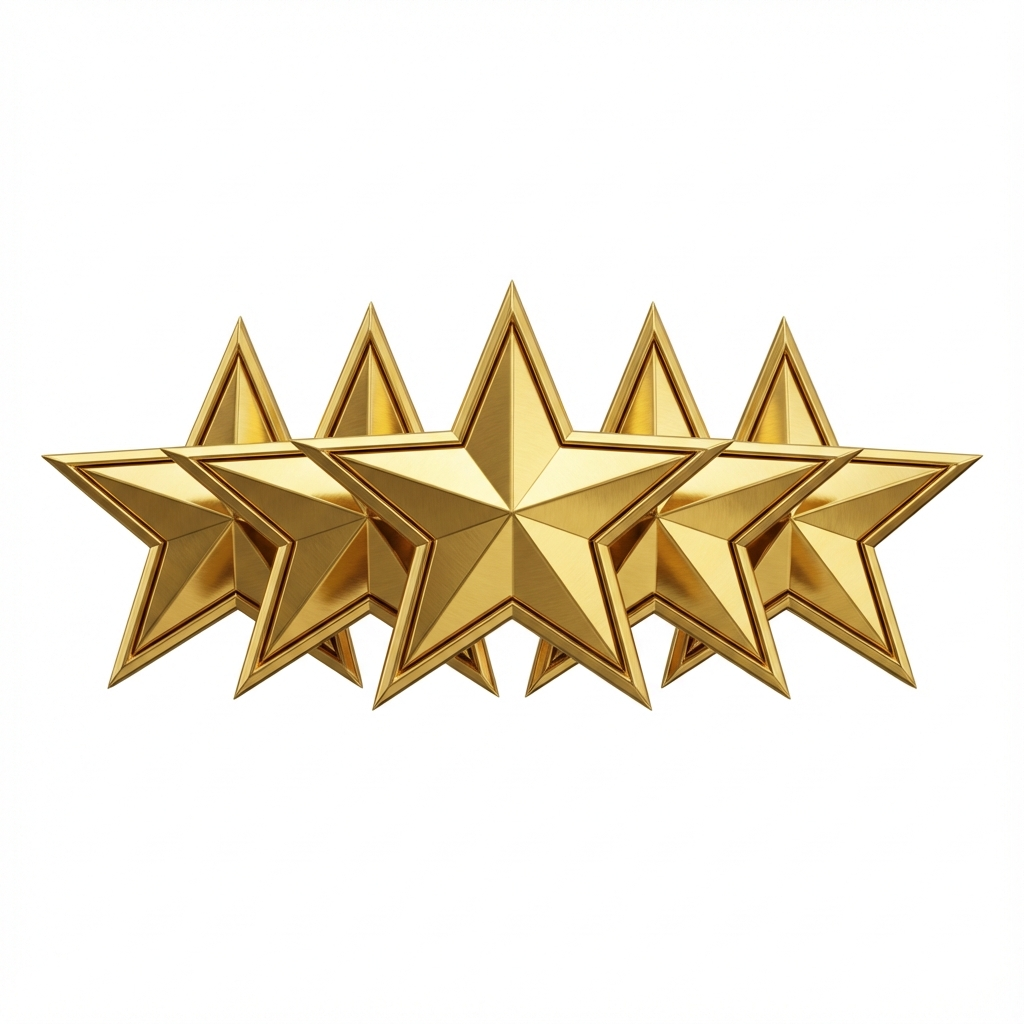
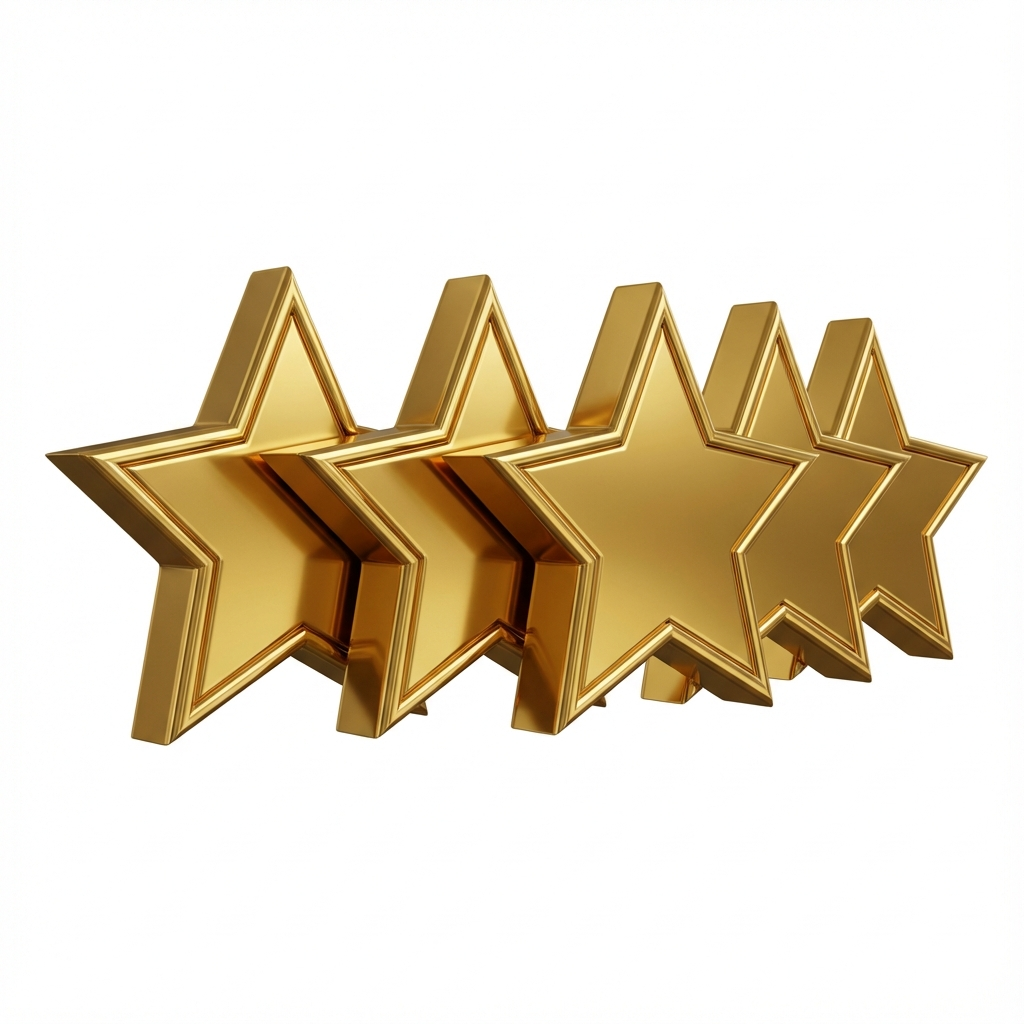
שוס

Changed region(s): [[0.0312, 0.25, 0.9688, 0.75]]

diff --git a/src/routes/+page.svelte b/src/routes/+page.svelte
@@ -2,7 +2,7 @@
 	import { onMount } from 'svelte';
 	import IsraelMap from '$lib/components/IsraelMap.svelte';
 	import { lang, translations } from '$lib/i18n';
-	import fiveStars from '$lib/assets/five-stars.png';
+	import goldStar from '$lib/assets/gold-star.png';
 
 	// Handle Language
 	let currentLang = $state('he');
@@ -522,13 +522,15 @@
 					>
 						{t.topRated}
 					</h2>
-					<div class="mt-4 flex justify-center" dir="ltr">
-						<img
-							src={fiveStars}
-							alt="חמישה כוכבי זהב"
-							class="animate-scatter-gather h-16 object-contain drop-shadow-2xl sm:h-24"
-							style="opacity: 0; animation-fill-mode: forwards;"
-						/>
+					<div class="mt-4 flex justify-center -space-x-1 sm:-space-x-2" dir="ltr">
+						{#each [{ tx: '-100px', ty: '-50px', r: '-45deg', d: '0s' }, { tx: '-50px', ty: '80px', r: '30deg', d: '0.1s' }, { tx: '0px', ty: '-100px', r: '180deg', d: '0.2s' }, { tx: '50px', ty: '60px', r: '-20deg', d: '0.3s' }, { tx: '100px', ty: '-40px', r: '90deg', d: '0.4s' }] as star, i}
+							<img
+								src={goldStar}
+								alt="כוכב זהב"
+								class="animate-converge h-10 w-10 object-contain drop-shadow-lg sm:h-16 sm:w-16"
+								style="--tx: {star.tx}; --ty: {star.ty}; --r: {star.r}; animation-delay: {star.d}; opacity: 0; animation-fill-mode: forwards;"
+							/>
+						{/each}
 					</div>
 				</div>
 
@@ -913,19 +915,22 @@
 		-webkit-box-orient: vertical;
 		overflow: hidden;
 	}
-	.animate-scatter-gather {
-		animation: scatter-gather 1.2s cubic-bezier(0.22, 1, 0.36, 1) forwards;
+	.animate-converge {
+		animation: converge 1s cubic-bezier(0.25, 1, 0.5, 1) forwards;
 	}
 
-	@keyframes scatter-gather {
+	@keyframes converge {
 		0% {
 			opacity: 0;
-			transform: scale(2);
+			transform: translate(var(--tx), var(--ty)) rotate(var(--r)) scale(3);
 			filter: blur(10px);
+		}
+		60% {
+			opacity: 1;
 		}
 		100% {
 			opacity: 1;
-			transform: scale(1);
+			transform: translate(0, 0) rotate(0deg) scale(1);
 			filter: blur(0px);
 		}
 	}
